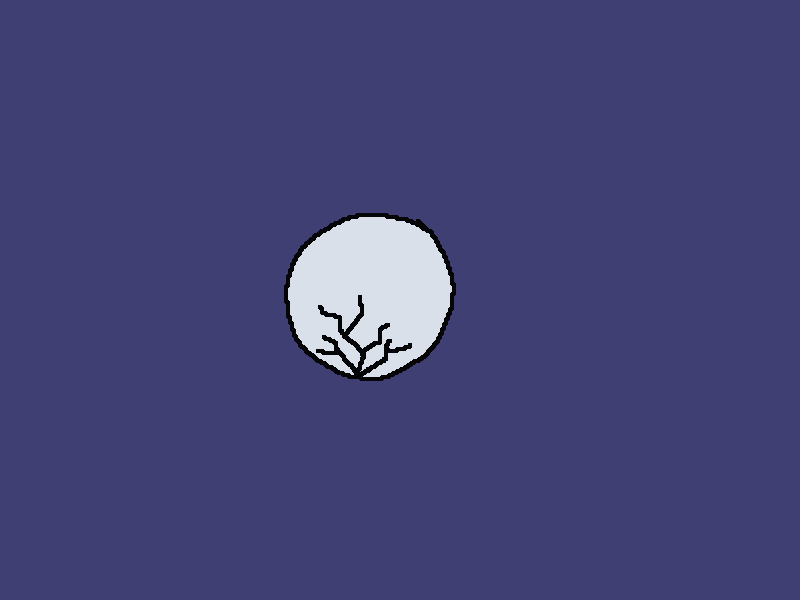
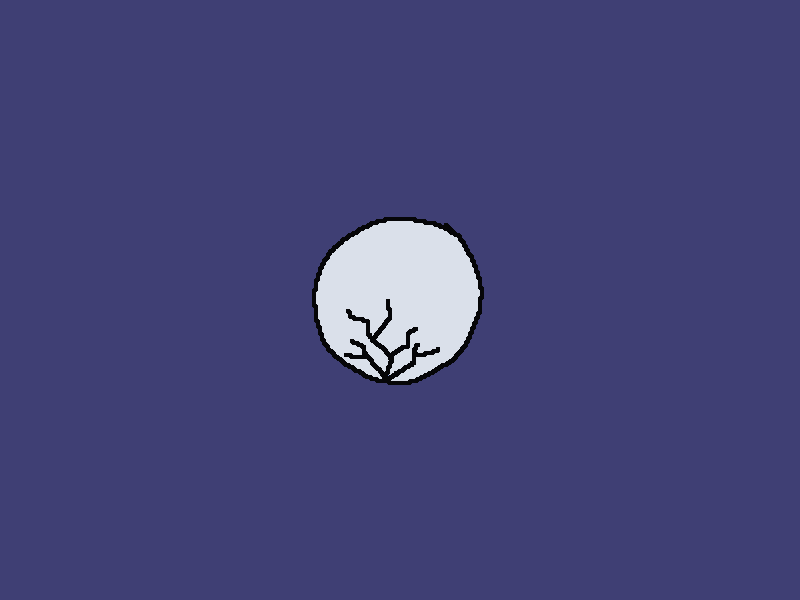
added level up screen, displayed for 1 sec

Changed region(s): [[0.3438, 0.33, 0.625, 0.66]]

diff --git a/game.py b/game.py
@@ -31,6 +31,7 @@ class Game:
         self.title_screen = pygame.image.load("images/title_screen.png")
         self.end_screen = pygame.image.load("images/end_screen.png")
         self.ball_lost_screen = pygame.image.load("images/ball_lost.png")
+        self.levelup_screen = pygame.image.load("images/levelup.png")
         self.dmgup_image = pygame.image.load("images/dmg_up.png")
         self.lifeup_image = pygame.image.load("images/life_up.png")
         self.widthup_image = pygame.image.load("images/width_up.png")
@@ -61,6 +62,7 @@ class Game:
         self.pickup_collected = False
         self.endscreen_visible = False
         self.ball_lost = False
+        self.level_up = False
 
         self.load_next_level(self.current_level) 
         
@@ -70,8 +72,11 @@ class Game:
             self.check_events()
             if self.game_active:
                 if self.ball_lost:
-                    pygame.time.delay(1200)
+                    pygame.time.delay(1000)
                     self.ball_lost = False
+                if self.level_up:
+                    pygame.time.delay(1000)
+                    self.level_up = False
                 self.platform.update()
                 self.ball.update()                    
                 self.scorelabel.prep_score(self.points)
@@ -138,6 +143,7 @@ class Game:
                 self.platform.moving_right = False
                 self.ball.ball_speed = self.settings.ball_speed
                 self.highscore.grats = False
+                self.scorelabel.prep_level(self.current_level)
                 pygame.mouse.set_visible(False)
                 # self.new_high_score = False
 
@@ -279,6 +285,7 @@ class Game:
             self.level_running = False
             self.pickup_visible = False
             self.pickup_collected = False
+            self.level_up = True
             self.active_drop = ""
             self.drops_collected = []
             self.ball.start_pos()
@@ -288,11 +295,10 @@ class Game:
             self.load_next_level(self.current_level)
             self.get_blocks()
             self.scorelabel.prep_level(self.current_level)
-            print(self.ball.ball_speed)
-
+            
     def load_next_level(self, level):
        
-        if level == 1:
+        if level == 5:
             self.level_pos = [
                             (250, 50), (490, 50), (310, 90), (430, 90),
                             (310, 130), (370, 130), (430, 130), (250, 170),
@@ -328,8 +334,8 @@ class Game:
                             (270, 170), (330, 170), (390, 170), (450, 170),
                             (510, 170), (570, 170),(630, 170), (690, 170)] 
         
-            # if level == 1:
-        #     self.level_pos = [(100, 100)]
+        if level == 1:
+            self.level_pos = [(400, 400)]
         # if level == 1:
         #     self.level_pos = [
         #                     (250, 50), (490, 50), (310, 90), (430, 90),
@@ -349,6 +355,9 @@ class Game:
             self.screen.blit(self.title_screen, (0, 0))
             self.play_button.draw_button()
 
+        # if self.game_active and self.level_up:
+        #     self.screen.blit(self.levelup_screen, (0, 0))
+
         if self.game_active and self.ball_lost:
             self.screen.blit(self.ball_lost_screen, (0, 0))
 
@@ -362,6 +371,9 @@ class Game:
             for i in self.blocks:
                 i.drawme()                 
             self.ball.drawme()
+
+        if self.game_active and self.level_up:
+            self.screen.blit(self.levelup_screen, (0, 0))
 
         pygame.display.flip()
 
